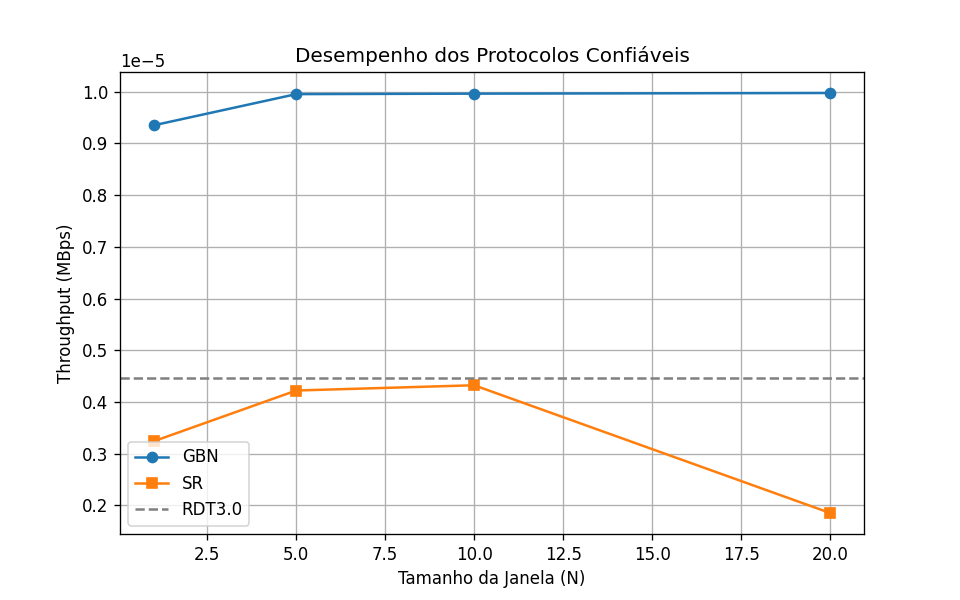
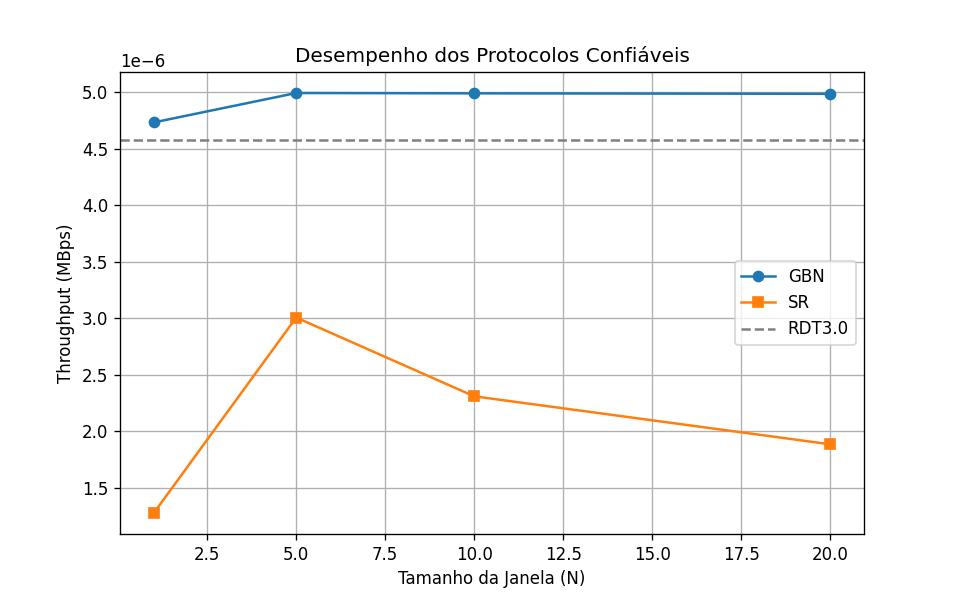
testes da fase 2 completos

diff --git a/testes/test_fase2.py b/testes/test_fase2.py
@@ -129,24 +129,34 @@ def instantiate_sender(sender_cls, dest_addr, channel, window_size: int, timeout
     raise last_exc
 
 
-def run_protocol_test(name, sender_cls, receiver_cls, total_chunks=1024, chunk_size=10,
+def run_protocol_test(name, sender_cls, receiver_cls, total_chunks=1024, chunk_size=1024,
                       window_size=1, loss_rate=0.1, delay_range=(0.01, 0.05), verbose=False):
     """
     Executa o teste de um protocolo confiável (RDT3, GBN ou SR) com canal não confiável.
-    Retorna estatísticas do teste.
+    Retorna estatísticas do teste e logs detalhados para SR.
     """
     # 1. Criar canal
     channel = UnreliableChannel(loss_rate=loss_rate, corrupt_rate=0.0, delay_range=delay_range, verbose=verbose)
 
     # 2. Lista para receber os dados
     received = []
-    def deliver(data):
-        received.append(data)
+
+    # Callback genérico para todos os protocolos
+    def deliver(*args):
+        """
+        - Para SR: deliver(seq, data)
+        - Para RDT3/GBN: deliver(data)
+        """
+        if len(args) == 2:
+            seq, data = args
+        else:
+            data = args[0]
+            seq = None
+        received.append((seq, data))
         if verbose:
-            print(f"[SR] Pacote recebido: {data}")  # log de recebimento
+            print(f"[DEBUG] Pacote recebido: seq={seq}, tamanho={len(data)}")
 
-
-    # 3. Criar receiver
+    # 3. Criar receiver e sender
     if name == "SR":
         receiver = receiver_cls(channel=channel, window_size=window_size, deliver_callback=deliver)
         receiver_port = receiver.sock.getsockname()[1]
@@ -163,24 +173,38 @@ def run_protocol_test(name, sender_cls, receiver_cls, total_chunks=1024, chunk_s
                             channel=channel, timeout=1.0, verbose=verbose)
 
     # 4. Criar os dados
-    data_chunks = [b'x'*chunk_size for _ in range(total_chunks)]
+    data_chunks = [bytes([i % 256])*chunk_size for i in range(total_chunks)]  # cada pacote distinto
+    packet_logs = []
 
     # 5. Enviar dados e medir tempo
     start = time.time()
-    if name == "RDT3":
-        # envia cada chunk separadamente para evitar TypeError
+    if name == "SR":
         for i, chunk in enumerate(data_chunks):
             sender.send(chunk)
+            packet_logs.append(f"[SR] Pacote enviado: seq={i}, tamanho={len(chunk)}")
             if verbose:
-                print(f"[SR] Pacote enviado ({i+1}/{len(data_chunks)}): {chunk}")   
+                print(packet_logs[-1])
     else:
         for chunk in data_chunks:
             sender.send(chunk)
 
-    time.sleep(1)  # espera ACKs finais
+    time.sleep(2)  # espera ACKs finais
     elapsed = max(time.time() - start, 0.000001)
 
     # 6. Estatísticas
+    ordered = True
+    if name == "SR":
+        # filtra pacotes válidos
+        received_dict = {seq: data for seq, data in received if seq is not None}
+        ordered = True
+        for i in range(total_chunks):
+            expected_data = data_chunks[i]
+            actual_data = received_dict.get(i)
+            if actual_data != expected_data:
+                ordered = False
+                if verbose:
+                    print(f"[ERRO] Pacote fora de ordem ou corrompido: seq={i}, esperado tamanho={len(expected_data)}, recebido tamanho={len(actual_data) if actual_data else 0}")
+
     delivered_count = len(received)
     total_data = chunk_size * total_chunks
     throughput = total_data / elapsed / 1e6  # MB/s
@@ -205,12 +229,15 @@ def run_protocol_test(name, sender_cls, receiver_cls, total_chunks=1024, chunk_s
         'throughput': throughput,
         'utilization': utilization,
         'retransmissions': retransmissions,
-        'received': delivered_count
+        'received': delivered_count,
+        'ordered': ordered,
+        'packet_logs': packet_logs
     }
+
 def main():
     # Parâmetros do teste
-    total_chunks = 10      # número de pacotes por teste
-    chunk_size = 25        # tamanho de cada pacote em bytes
+    total_chunks = 1024     # número de pacotes por teste
+    chunk_size = 1024        # tamanho de cada pacote em bytes
     delay_range = (0.01, 0.05)
     loss_rate = 0.1
     verbose = False

diff --git a/fase2/sr.py b/fase2/sr.py
@@ -151,11 +151,12 @@ class SR_Receiver:
 
                     # Entrega em ordem
                     while self.expected_seq % 256 in self.buffer:
-                        msg = self.buffer[self.expected_seq % 256]
+                        seq_mod = self.expected_seq % 256
+                        msg = self.buffer[seq_mod]
                         self.delivered_data.append(msg)
                         if self.deliver_callback:
-                            self.deliver_callback(msg)  # <-- chama callback do simulador
-                        del self.buffer[self.expected_seq % 256]
+                            self.deliver_callback(seq_mod, msg)  # <-- envia seq junto
+                        del self.buffer[seq_mod]
                         self.expected_seq += 1
 
     def get_received_chunks(self):
